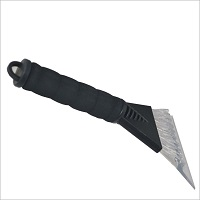
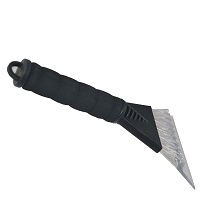
Image transparency update

Changed region(s): [[0.0, 0.0, 1.0, 1.0]]

diff --git a/index.html b/index.html
@@ -147,7 +147,7 @@
         <div class="row">
           <div class="col-sm-8 col-sm-offset-2">
             <div class="col-lg-8">
-              <img src="./assets/img/projects/trivia.jpg" class="img-responsive center-block"/>
+              <img src="./assets/img/projects/trivia.png" class="img-responsive center-block"/>
             </div>
 
             <div class="col-lg-4">
